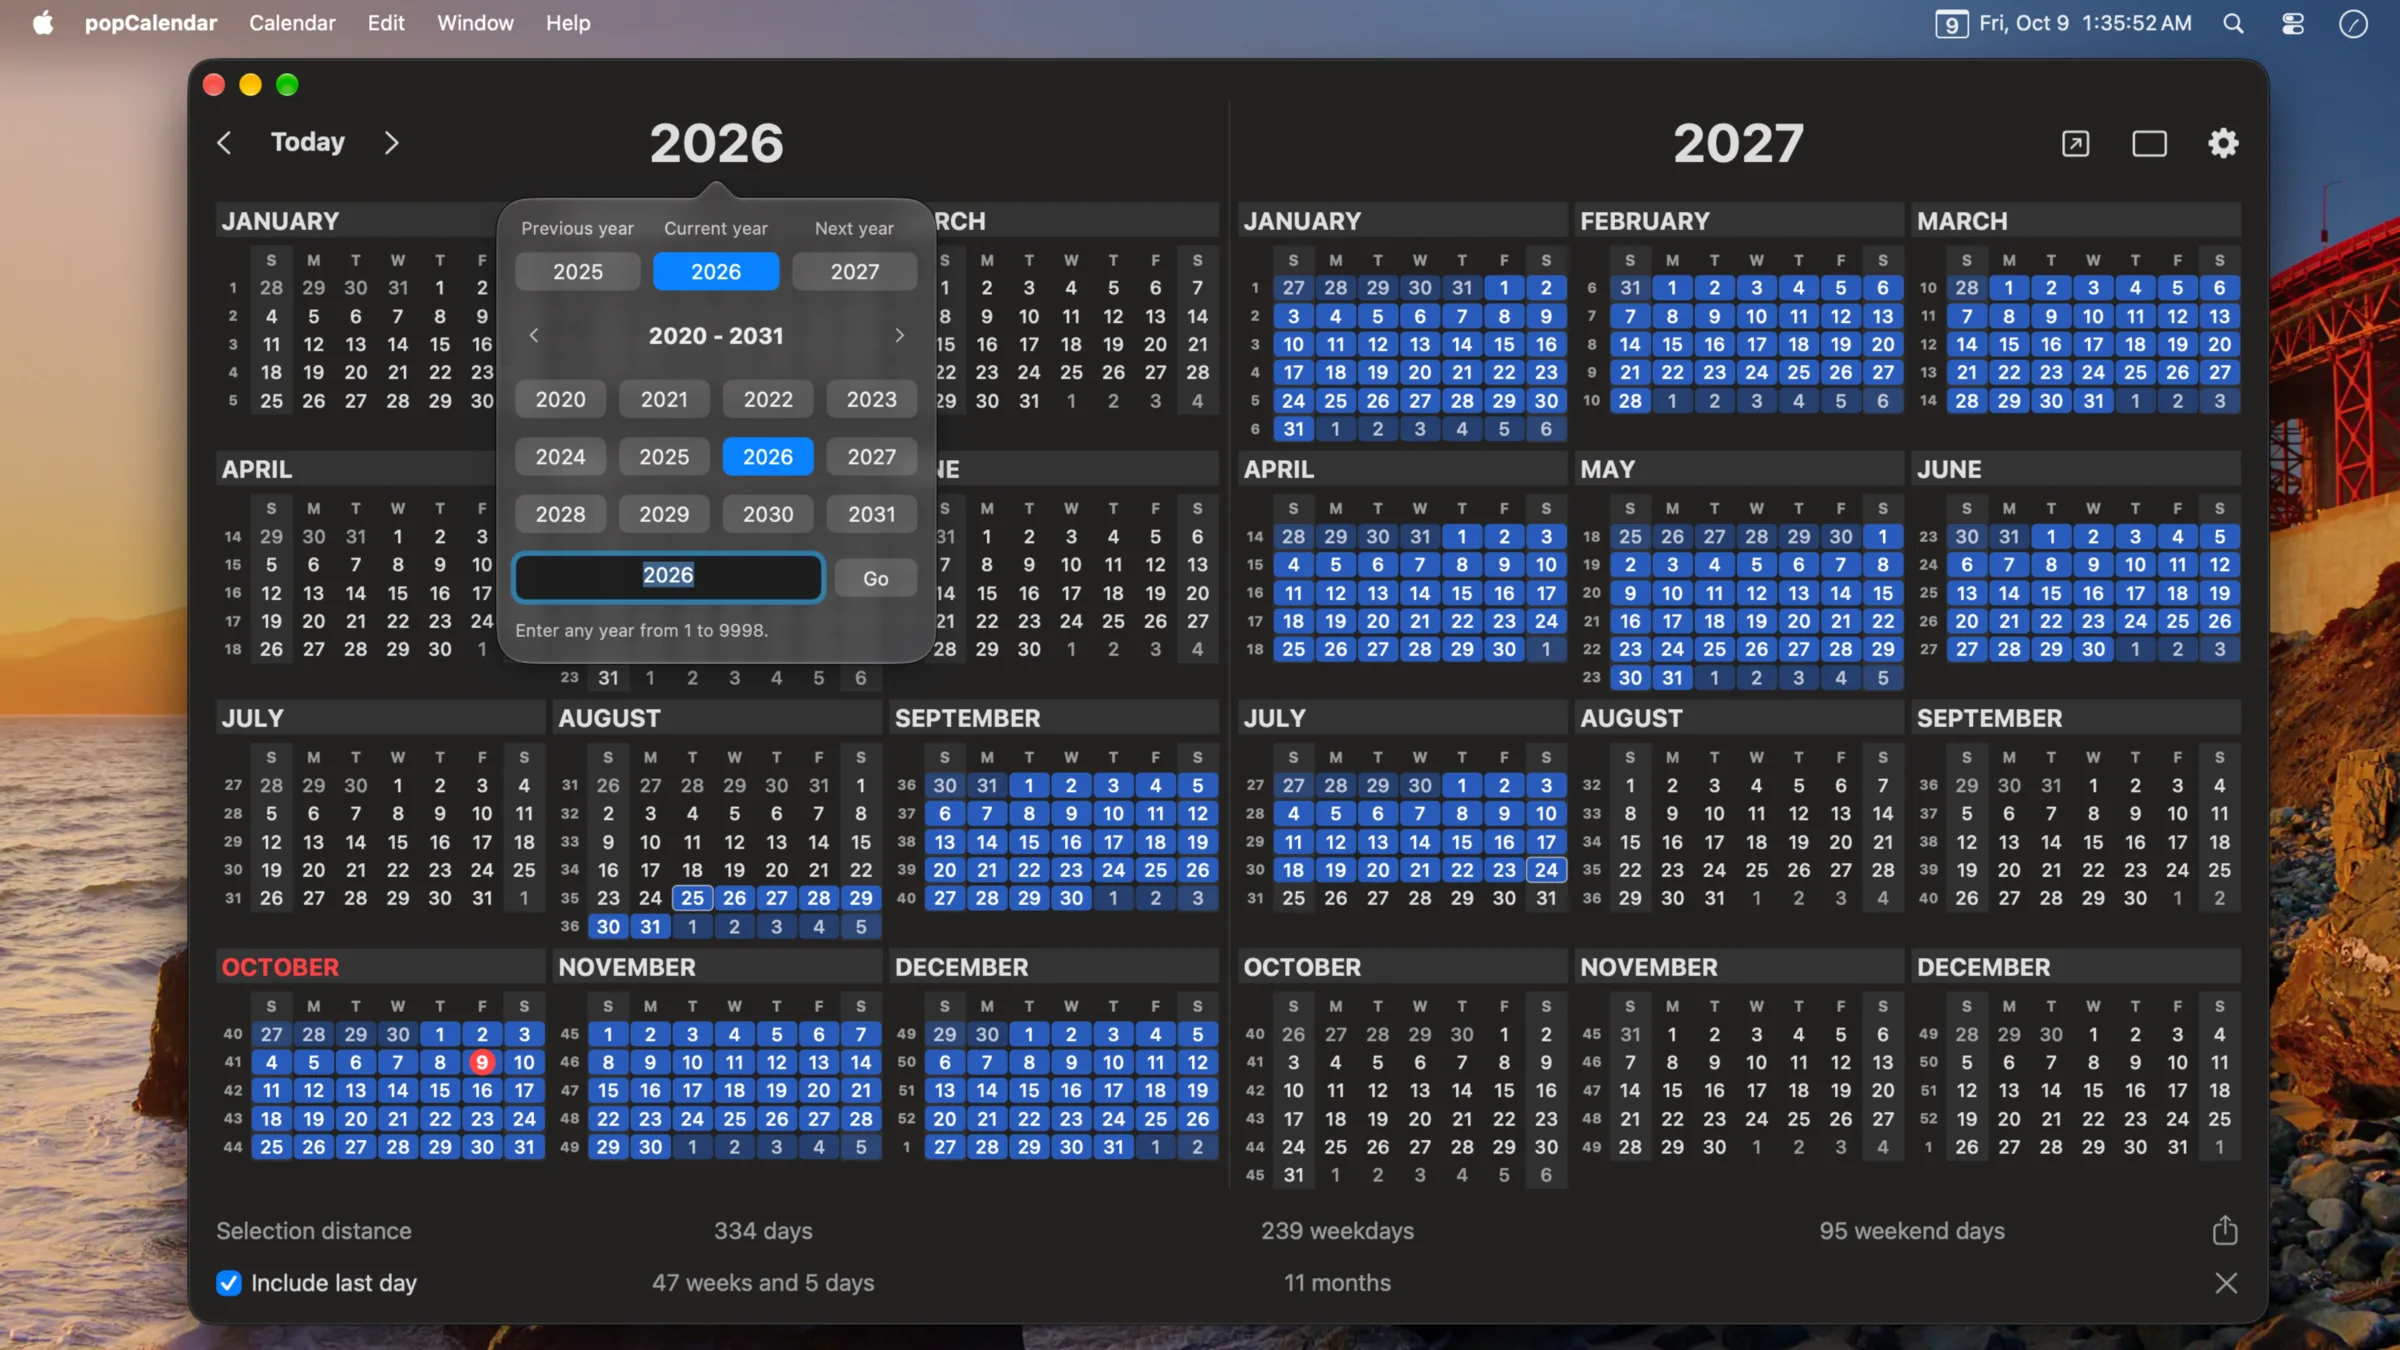
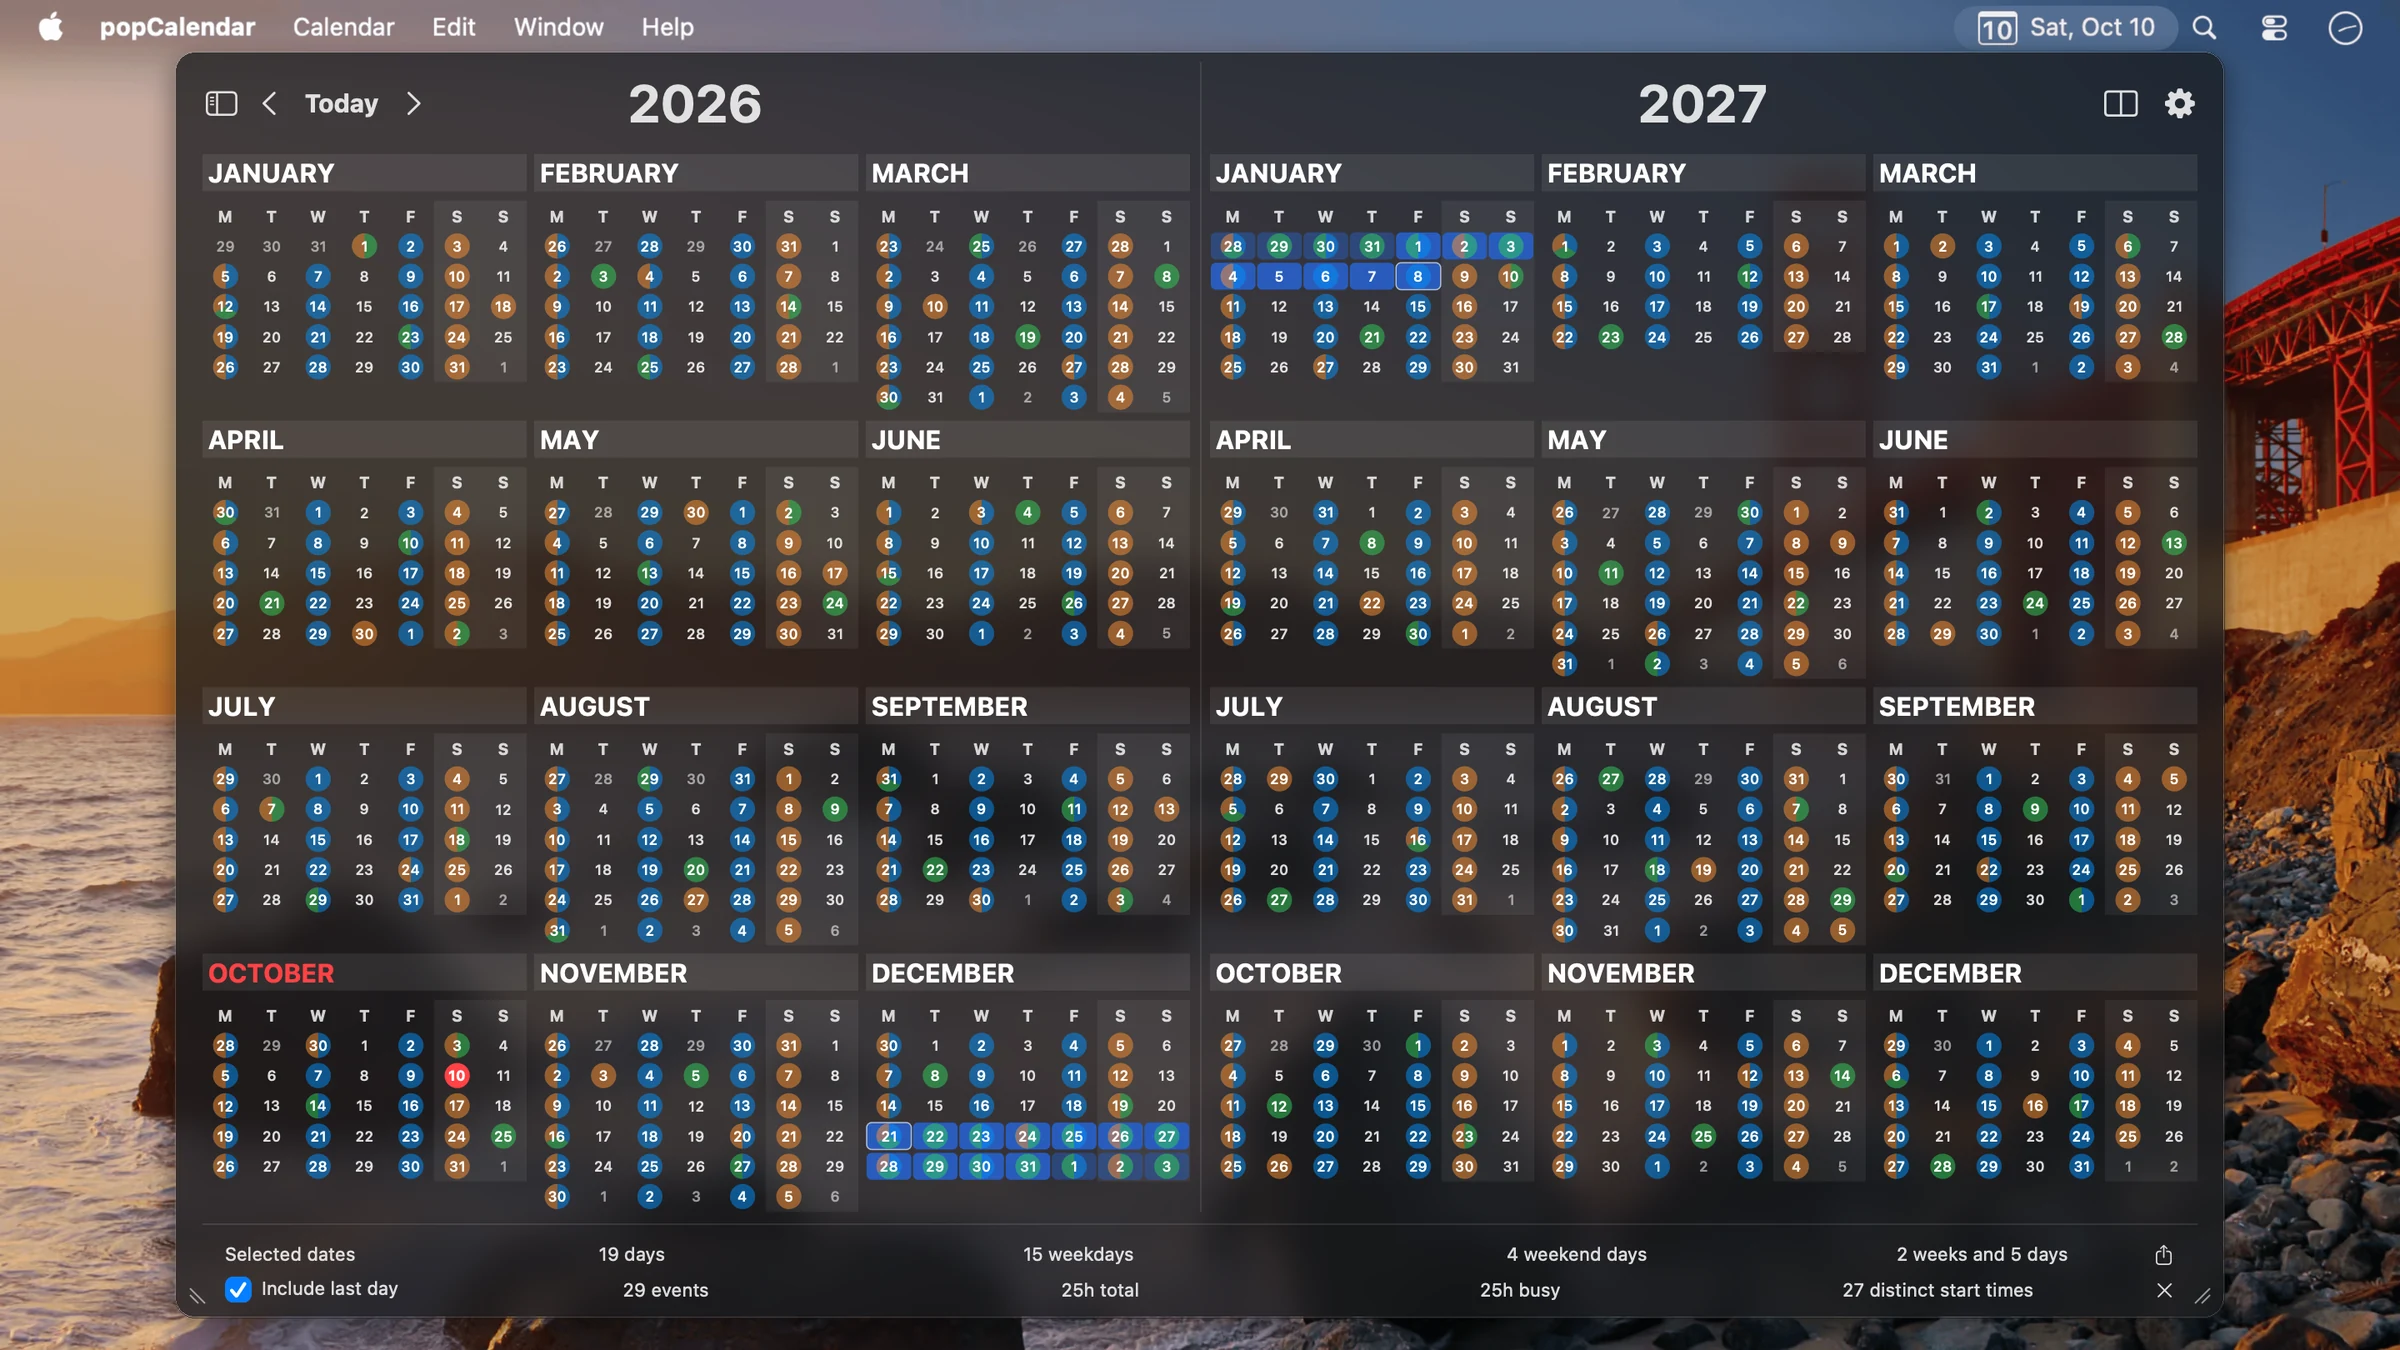
popCalendar v1.0.1

diff --git a/README.md b/README.md
@@ -4,56 +4,79 @@
 
 Your whole year. One click away.
 
-popCalendar is a native Mac menu bar calendar that puts all twelve months within reach. See the bigger picture, count days with a drag, and keep your plans close without opening a separate calculator.
+popCalendar is a native Mac calendar with a full year in your menu bar and a live clock behind the calendar. See all twelve months at a glance, count days with a drag, and keep your daily events beside the bigger picture. Stay with a compact popup or give your calendar a whole display.
 
-Coming soon to the Mac App Store. Currently in development for macOS 12 Monterey and later, on Apple silicon and Intel Macs.
+Available now on the Mac App Store for macOS 12 Monterey and later, on Apple silicon and Intel Macs.
 
-[Visit the website](https://popcalendar.app/) | [Get support](https://popcalendar.app/support/) | [Open issues](https://github.com/JulyIghor/popCalendar/issues)
+[Get popCalendar on the Mac App Store](https://apps.apple.com/app/apple-store/id6791947576?pt=127627850&ct=www&mt=8) | [Visit the website](https://popcalendar.app/) | [Get support](https://popcalendar.app/support/)
 
-## A bigger picture of your time
+![popCalendar filling a display with 2026 and 2027, an October month sidebar, the selected day's events, and a large background clock](assets/full-display.webp)
 
-![popCalendar showing 2026 and 2027 side by side with a date range selected across both years](assets/two-year-view.webp)
+Two years, a month sidebar, and the selected day's events in one fullscreen view.
 
-[See more screenshots](https://popcalendar.app/#gallery) or [watch the app preview](https://popcalendar.app/#preview).
+[Watch popCalendar in action](https://popcalendar.app/#preview) or [explore more screenshots](https://popcalendar.app/#gallery).
 
-## What you can do
+## A full year in your menu bar
 
-- See a full year in a resizable calendar, available from your menu bar or a custom keyboard shortcut.
-- Drag across dates to count days, working days, weekends, and the distance in weeks, months, and years. Adjust either endpoint and choose whether the last day counts.
-- Show two years side by side, even when they are not consecutive. Select between them to calculate the complete distance, including the years in between.
-- Choose your working weekdays and optionally exclude all-day events from holiday or time-off calendars already on your Mac.
-- Save named date ranges, pin a countdown, copy a distance summary, or share an image of your calendar and its selection.
-- Preview events, explore a month and its agenda, create and edit events, and organize your calendars into sets for work and personal plans.
-- Open independent calendar windows with their own dates, selections, sizes, and calendar sets.
-- Put an analog or digital clock behind the calendar, bringing time and dates into the same view. Personalize the menu bar icon, date and time text, and calendar appearance.
+Open the whole year with one click or a custom keyboard shortcut. Click outside the popup to return to what you were doing.
 
-Calendar access is optional. Browsing dates and calculating ranges work without it. Showing and editing events, or using holiday and time-off calendars, requires permission. Holiday calendars are not downloaded automatically.
+Choose one or two months, one or two years, or a month sidebar beside one or two years. Click a date in the year view to see that day's events in the sidebar without losing the overview.
+
+Independent calendar windows remember their layouts, dates, selections, sizes, and positions across restarts. The menu bar popup remembers its size for each display. You can also hide the menu bar icon and use windows and the Dock.
+
+## A clock behind the calendar
+
+Bring time and dates into the same view with 27 analog, digital, and hybrid clock presets. Customize the clock's appearance, size, and opacity, with sweeping, ticking, bouncing, or hidden seconds.
+
+Use your own photo, one of six abstract backgrounds, or random images from a chosen folder. Add today's date or personal text, and adjust calendar text sizes, event colors, and weekend shading to suit the view.
+
+![A full-year popCalendar menu bar view with a large hybrid analog and digital clock behind the dates](assets/hybrid-clock.webp)
+
+## Count time by selecting it
+
+- Drag across dates to count days, working days, weekends, weeks, months, and years. Adjust either endpoint and choose whether the last day counts.
+- Select across two years, even nonconsecutive ones. The calculation includes the years in between.
+- See event counts, total duration, occupied time with overlaps counted once, and distinct start times alongside the date distance.
+- Save named ranges, choose outline colors, and pin countdowns. Ranges shorter than a year can repeat annually. Copy a summary or export a calendar screenshot.
+- Choose your working weekdays and optionally exclude all-day events from holiday or time-off calendars already on your Mac. Holiday calendars are not downloaded automatically.
+
+![A selected date range spanning December 2026 and January 2027, with day counts and event statistics below the two-year calendar](assets/two-year-view.webp)
+
+## Events and reminders
+
+Browse the selected day, today, tomorrow, or the next seven days. Search, preview, create, edit, duplicate, or delete events when permitted. Switch saved Calendar Sets to separate work and personal plans. Quick entry in your interface language or English fills an event draft for you to review.
+
+Enable optional notifications for events and saved date ranges. Fullscreen meeting reminders offer Join Meeting, Snooze, Open Event, and Dismiss actions, with adjustable size, display, background, opacity, and animation. Fullscreen reminders require popCalendar to be running. System notifications require macOS permission.
+
+![A fullscreen meeting reminder with Join Meeting, Snooze 5 minutes, Open Event, and Dismiss buttons](assets/meeting-reminder.webp)
+
+The interface is available in English, Ukrainian, German, Spanish, and Portuguese, including Latin American Spanish and Brazilian and European Portuguese. Follow the macOS language or choose one in Settings.
 
 ## Privacy and offline use
 
-The app collects no data and contains no advertising or analytics. It runs in the macOS App Sandbox, has no network entitlement, and works offline. Saved ranges and preferences stay on your Mac.
+popCalendar runs in the macOS App Sandbox and has no advertising, developer analytics, or developer-operated accounts. The developer does not collect personal data, usage statistics, or calendar information. Preferences, saved ranges, Calendar Sets, and background images stay on your Mac.
 
-Calendar account syncing is handled separately by macOS. Opening a web calendar or an online meeting link uses your browser and may require an internet connection.
+Date browsing, calculations, backgrounds, and quick entry work offline. Calendar access is optional and uses calendars already configured on your Mac. macOS handles calendar account syncing separately.
+
+Apple Maps location suggestions send your search text directly to Apple and require an internet connection. Manual locations work offline. Opening online meeting links or web calendars may also require internet access.
 
 The popCalendar website uses Plausible analytics separately from the app. Read the [privacy policy](https://popcalendar.app/privacy-policy/) and [terms of service](https://popcalendar.app/terms-of-service/) for details.
 
+## The story behind popCalendar
+
+One small menu bar calendar became the way I understood dates. When the original popCalendar disappeared from the Mac App Store and its future became uncertain, finding a replacement turned out to be harder than I expected.
+
+In [How I Finally Started Using a Calendar](https://reverseeverything.com/blog/the-mac-calendar-i-couldnt-let-disappear/), I share how that everyday habit led me to build a new, independent popCalendar, and how it grew beyond the app I first set out to replace.
+
 ## Support and feedback
 
-Use this repository's issue tracker for bug reports and feature requests.
+This repository is the public home for popCalendar's overview, bug reports, and feature requests. The app is distributed through the Mac App Store.
 
 - [Browse open issues or report a bug](https://github.com/JulyIghor/popCalendar/issues)
 - [Visit the support page](https://popcalendar.app/support/)
 - [Email support@apptrust.app](mailto:support@apptrust.app)
 
 When reporting a bug, include your macOS version, popCalendar version, what you expected, what happened, and the steps to reproduce it. GitHub issues are public, so leave out private calendar details and other personal information.
-
-## Why I made it
-
-The original popCalendar was my favorite calendar. After its developer stopped working on it, I kept using it for years. When I started looking for a replacement, nothing felt as comfortable, especially when I wanted the whole year in my menu bar.
-
-So I built a new, independent popCalendar around the way I use a calendar. Counting days and working days became part of selecting dates. A clock could sit behind the calendar instead of beside it. What started as a replacement became a chance to make the calendar I had always wanted.
-
-[Read the story behind popCalendar](https://popcalendar.app/#story).
 
 ## About the developer
 
